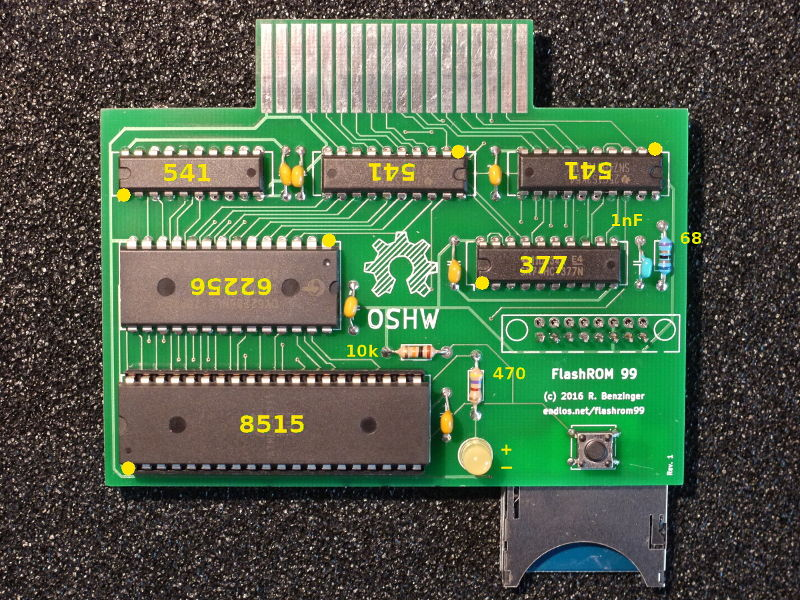
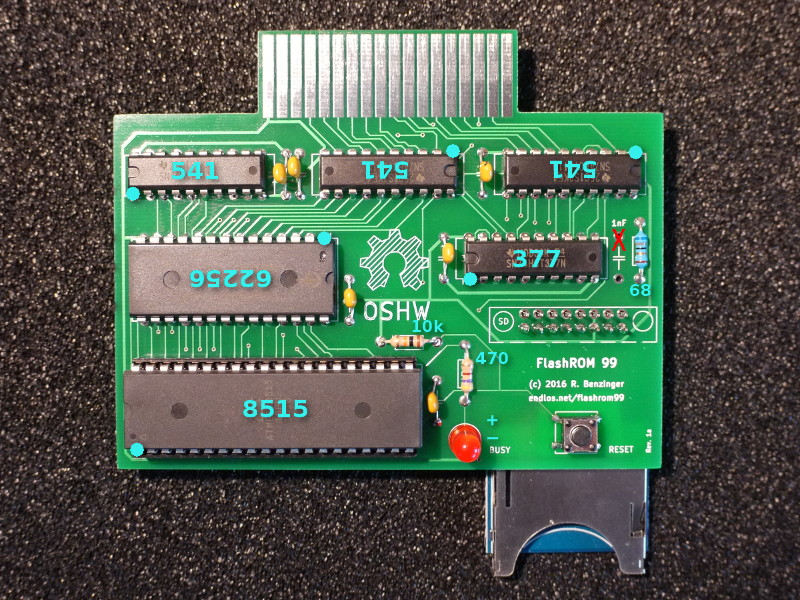
FR99: updated fix: no cap

diff --git a/doc/README.html b/doc/README.html
@@ -10,7 +10,7 @@ a, a:visited { color: #11a; text-decoration: none; }
 <p>The <em>TI 99/4A Flash ROM Cartridge</em>, or FlashROM 99 for short, is a cartridge
 for the TI 99/4A home computer that allows for running ROM cartridge images
 stored on an SD card.</p>
-<p><img alt="The FlashROM 99 Cartridge" src="/doc/flashrom99.jpg" /></p>
+<p><img alt="The FlashROM 99 Cartridge" src="flashrom99.jpg" /></p>
 <p>The FlashROM 99 supports ROM-only images of up to 32K that use the
 write-to-<code>&gt;60xx</code> bank switching scheme.  It will not work with programs
 using GROMs or CRU-based bank switching.  The cartridge does not require the
@@ -31,7 +31,7 @@ images found on the SD card.  If the SD card contains more than 8 images, a
 <code>FLASHROM 99</code> entry is shown instead.  Selecting this entry starts an image
 browser where you can page through the list of available images with <code>,</code>,
 <code>.</code>, <code>SPACE</code>, and number keys.</p>
-<p><img alt="Image selection" src="/doc/selection.png" /></p>
+<p><img alt="Image selection" src="selection.png" /></p>
 <p>Select the image you want to run.  The screen will show a loader animation
 while the image loads.  Once the image has been loaded, it will run
 automatically.  The SD card is now no longer required and may be removed.</p>
@@ -55,7 +55,6 @@ sources required to build the FlashROM 99.</p>
 <li>1x 74HCT377 (LS may also work, but untested)</li>
 <li>3x 74HCT541 (LS may also work, but untested)</li>
 <li>6x 100 nF capacitors (e.g., multi-layer ceramic X7R, no electrolytic!)</li>
-<li>1x 1 nF capacitor (e.g., multi-layer ceramic X7R, no electrolytic!)</li>
 <li>1x 68 Ohm resistor</li>
 <li>1x 330-470 Ohm resistor (depending on LED used, smaller values will be
      brighter)</li>
@@ -77,32 +76,33 @@ Ohm resistor if you choose anything other than red or yellow.</p>
 <p>The push button is used to reset the board and will be pushed frequently.
 You might choose an angled button if you prefer to push horizontally instead
 of vertically.  This will also put less stress on the cart connector.</p>
+<p>If the board shows connectors for a 1 nF capacitor next to the 62256, do
+<em>not</em> put this capacitor there, but leave the connectors empty.</p>
 <p>When assembling the board make sure to place all ICs properly oriented --
 some ICs are upside down!  On the board, the location of pin 1 is indicated
 by a small line in the IC outline.  Socketing the ATmega allows for future
 software updates.  It is best not to socket the 541s, however, as this will
 make inserting the assembled cart into the TI 99 more difficult.</p>
-<p><img alt="Parts Placement" src="/doc/placement.jpg" /></p>
+<p><img alt="Parts Placement" src="placement.jpg" /></p>
 <p>The push button is best soldered to the top of the board so that the bottom
 area remains as smooth as possible.  After the button is soldered, put some
 insulating tape on its bottom contacts to avoid interference with the SD
 module.</p>
-<p><img alt="Assembly" src="/doc/assembly.jpg" /></p>
+<p><img alt="Assembly" src="assembly.jpg" /></p>
 <p>Insert the SD module from the bottom and solder either one row of connectors
 top so that the metal part of the module is flush with the board.  Some SD
 modules have a crooked connector, though, so that a small gap may remain.</p>
 <p>If you don't want to build the board yourself feel free to contact the
 developer for available sources.</p>
 <h4>Previous Versions</h4>
-<p>Revision 1 of the board has a small issue that results in unreliable disk
-access on some, but not all, systems, mostly with an original TI floppy disk
-controller.</p>
-<p>If you own a Revision 1 board <em>and</em> experience problems running images that
-access the disk drives please see <a href="doc/R1DISKFIX.md"><code>doc/R1DISKFIX.md</code></a> for
-an easy fix.</p>
-<p>Note that the potential disk issue has been fixed in Revision 2 of the
-board.  The fix basically converts a Revision 1 board into a Revision 2
-board.</p>
+<p>Early versions of the FlashROM 99 used an additional 1 nF capacitor that
+resulted in unreliable disk access on some, but not all systems with certain
+disk controllers.</p>
+<p>Please check to see if the 1 nF capacitor is present on your board.  If so,
+simply remove it by desoldering or clipping its wires to improve the
+stability of your cart.</p>
+<p>If you applied a so-called "disk fix" to your board in the past, you don't
+need to undo those changes when removing the capacitor.</p>
 <h3>Software</h3>
 <p>The software for the ATmega 8515 consists of two components.  The <code>avr/</code>
 folder contains the microcontroller logic for accessing the SD card, filling

diff --git a/doc/MANUAL.html b/doc/MANUAL.html
@@ -144,10 +144,10 @@ previously run programs left over by a warm reset.  In rare cases, this may
 lead to graphical glitches or other unexpected behavior.</p>
 <p>Please refer to the troubleshooting section for a list of games known with
 issues.</p>
-<p>For cartridges using a Revision 1 board, programs that access disk drives
-may not work correctly on some systems, in particular with the original TI
-floppy disk controller.  Please check <a href="R1DISKFIX.md"><code>R1DISKFIX.md</code></a> for an
-easy hardware fix.  Note that Revision 2 boards are not affected.</p>
+<p>On some early cartridges, programs that access disk drives may not work
+correctly on some systems, in particular with the original TI floppy disk
+controller.  Please check <a href="../README.md"><code>README.md</code></a> to see if you need to
+remove a capacitor from the board.</p>
 <p>If you find additional images that don't work as intended on the FlashROM
 99, please send a note to the developer at <a href="&#109;&#97;&#105;&#108;&#116;&#111;&#58;&#114;&#64;&#48;&#120;&#48;&#49;&#46;&#100;&#101;">&#114;&#64;&#48;&#120;&#48;&#49;&#46;&#100;&#101;</a>, maybe the issue can
 be fixed with a software update for the 8515.</p>
@@ -230,15 +230,12 @@ other unexpected behavior.</p>
 <p>Try restarting the program by pressing <code>FCTN-=</code> and selecting it from the
 menu again to eliminate most issues.  Alternatively, put the image as the
 only image on the SD card so that it is loaded directly.</p>
-<p>If your program has difficulties reading from or writing to floppy disks,
-please see <a href="R1DISKFIX.md"><code>R1DISKFIX.md</code></a> for a possible solution.</p>
 <p>If this doesn't help, please send a note to the developer at <a href="&#109;&#97;&#105;&#108;&#116;&#111;&#58;&#114;&#64;&#48;&#120;&#48;&#49;&#46;&#100;&#101;">&#114;&#64;&#48;&#120;&#48;&#49;&#46;&#100;&#101;</a> for
 further analysis.</p>
 <h4>Programs with known issues.</h4>
 <p>These programs are known to have some flaws when run on the FlashROM 99:</p>
 <ul>
 <li>Console Writer: Input line shows dotted pattern.</li>
-<li>Miner 2049er: Crashes spectacularly.  Freezes when loaded directly.</li>
 </ul>
 <p>Note that for now, this list refers to particular images tested.  There
 might be different images of those programs that work.</p>

diff --git a/README.md b/README.md
@@ -71,7 +71,6 @@ To assemble the FlashROM 99 you need the following components:
 - 1x 74HCT377 (LS may also work, but untested)
 - 3x 74HCT541 (LS may also work, but untested)
 - 6x 100 nF capacitors (e.g., multi-layer ceramic X7R, no electrolytic!)
-- 1x 1 nF capacitor (e.g., multi-layer ceramic X7R, no electrolytic!)
 - 1x 68 Ohm resistor
 - 1x 330-470 Ohm resistor (depending on LED used, smaller values will be
      brighter)
@@ -96,6 +95,9 @@ Ohm resistor if you choose anything other than red or yellow.
 The push button is used to reset the board and will be pushed frequently.
 You might choose an angled button if you prefer to push horizontally instead
 of vertically.  This will also put less stress on the cart connector.
+
+If the board shows connectors for a 1 nF capacitor next to the 62256, do
+*not* put this capacitor there, but leave the connectors empty.
 
 When assembling the board make sure to place all ICs properly oriented --
 some ICs are upside down!  On the board, the location of pin 1 is indicated
@@ -122,17 +124,16 @@ developer for available sources.
 
 #### Previous Versions
 
-Revision 1 of the board has a small issue that results in unreliable disk
-access on some, but not all, systems, mostly with an original TI floppy disk
-controller.
+Early versions of the FlashROM 99 used an additional 1 nF capacitor that
+resulted in unreliable disk access on some, but not all systems with certain
+disk controllers.
 
-If you own a Revision 1 board *and* experience problems running images that
-access the disk drives please see [`doc/R1DISKFIX.md`](doc/R1DISKFIX.md) for
-an easy fix.
+Please check to see if the 1 nF capacitor is present on your board.  If so,
+simply remove it by desoldering or clipping its wires to improve the
+stability of your cart.
 
-Note that the potential disk issue has been fixed in Revision 2 of the
-board.  The fix basically converts a Revision 1 board into a Revision 2
-board.
+If you applied a so-called "disk fix" to your board in the past, you don't
+need to undo those changes when removing the capacitor.
 
 
 ### Software

diff --git a/doc/MANUAL.md b/doc/MANUAL.md
@@ -191,10 +191,10 @@ lead to graphical glitches or other unexpected behavior.
 Please refer to the troubleshooting section for a list of games known with
 issues.
 
-For cartridges using a Revision 1 board, programs that access disk drives
-may not work correctly on some systems, in particular with the original TI
-floppy disk controller.  Please check [`R1DISKFIX.md`](R1DISKFIX.md) for an
-easy hardware fix.  Note that Revision 2 boards are not affected.
+On some early cartridges, programs that access disk drives may not work
+correctly on some systems, in particular with the original TI floppy disk
+controller.  Please check [`README.md`](../README.md) to see if you need to
+remove a capacitor from the board.
 
 If you find additional images that don't work as intended on the FlashROM
 99, please send a note to the developer at <r@0x01.de>, maybe the issue can
@@ -316,9 +316,6 @@ Try restarting the program by pressing `FCTN-=` and selecting it from the
 menu again to eliminate most issues.  Alternatively, put the image as the
 only image on the SD card so that it is loaded directly.
 
-If your program has difficulties reading from or writing to floppy disks,
-please see [`R1DISKFIX.md`](R1DISKFIX.md) for a possible solution.
-
 If this doesn't help, please send a note to the developer at <r@0x01.de> for
 further analysis.
 
@@ -327,7 +324,6 @@ further analysis.
 These programs are known to have some flaws when run on the FlashROM 99:
 
 - Console Writer: Input line shows dotted pattern.
-- Miner 2049er: Crashes spectacularly.  Freezes when loaded directly.
 
 Note that for now, this list refers to particular images tested.  There
 might be different images of those programs that work.
